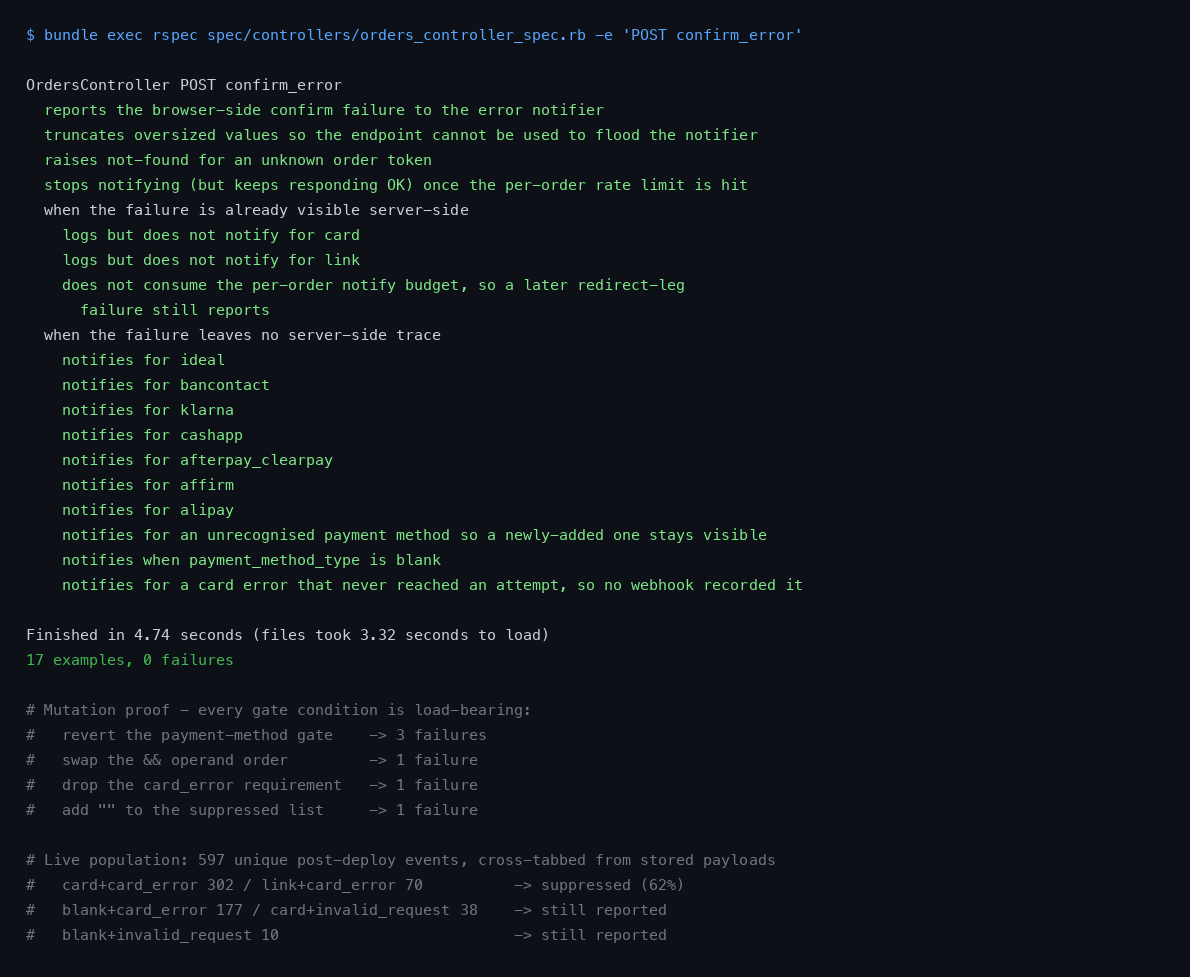
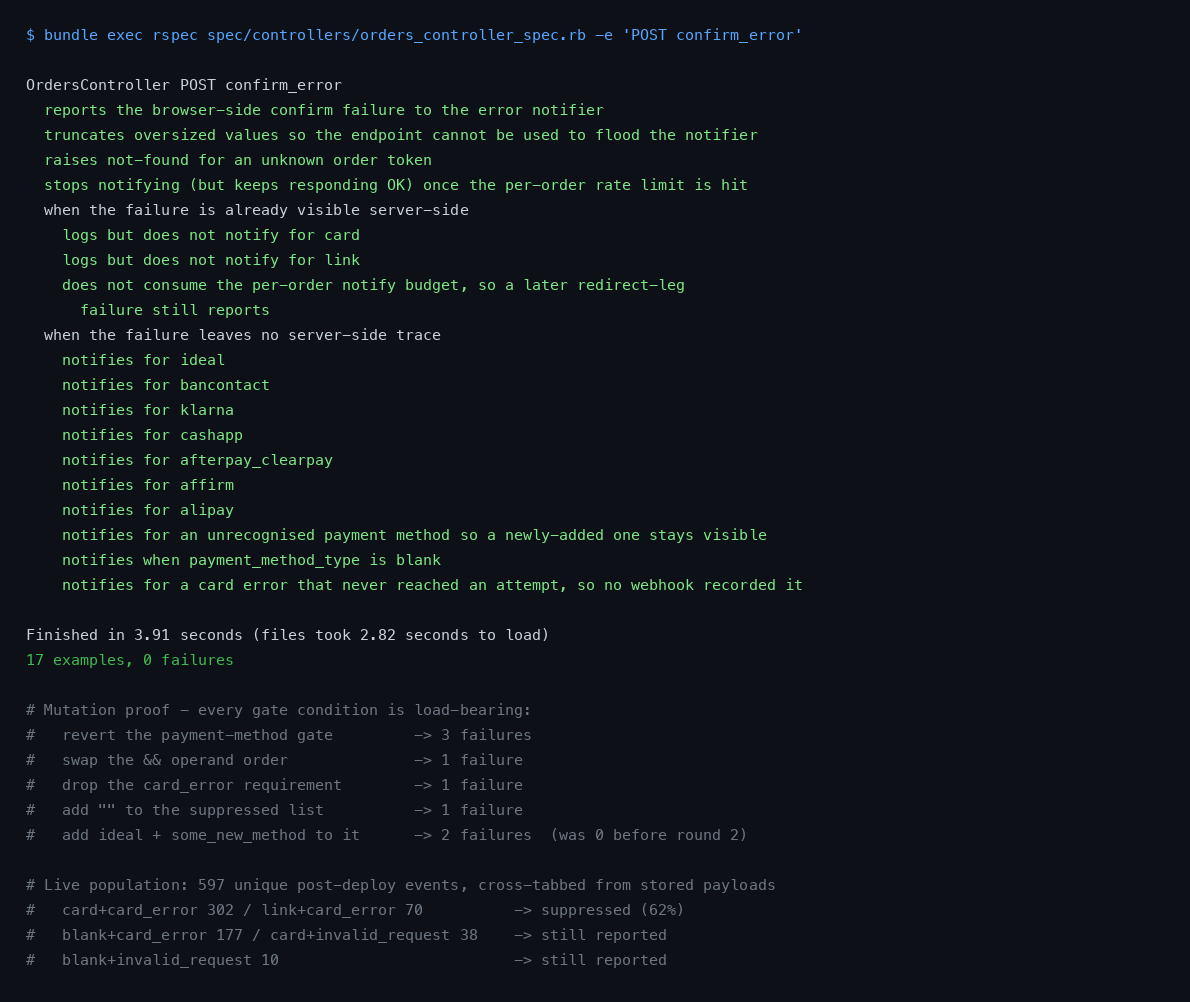
Make the redirect-method examples actually consult the denylist
Round-2 review caught that the redirect-method and unrecognised-method examples omit
stripe_error_type, so the predicate returns early at the attempt check and never reaches
the denylist. Adding ideal and some_new_method to the suppressed list reddened nothing:
the examples that exist to prove a new payment method stays visible were pinning nothing.

They now send card_error, which is the only type that reaches the membership check. Same
mutation: 0 failures before, 2 after. 17 examples, 0 failures; RuboCop clean.

Also drops the live-population percentages from the comments (they live in the PR body and
evidence image, per the previous commit) and names payment_intent.payment_failed inline
instead of pointing at another constant's comment.

diff --git a/spec/controllers/orders_controller_spec.rb b/spec/controllers/orders_controller_spec.rb
@@ -2693,6 +2693,10 @@ describe OrdersController, :vcr do
 
     context "when the failure leaves no server-side trace" do
       # A rejected confirm here creates no charge and no webhook — the browser is the only witness.
+      #
+      # stripe_error_type is card_error in these so the denylist is actually consulted: any other
+      # type returns early at the attempt check, and the examples would pass even if the method
+      # were suppressed.
       StripeIntentStatus::CLIENT_REDIRECT_PAYMENT_METHOD_TYPES.each do |payment_method_type|
         it "notifies for #{payment_method_type}" do
           params = { line_items: line_items.map(&:dup) }.merge(common_params)
@@ -2706,6 +2710,7 @@ describe OrdersController, :vcr do
           post :confirm_error, params: {
             id: order.secure_external_id(scope: "confirm"),
             payment_method_type:,
+            stripe_error_type: "card_error",
             stripe_error_code: "payment_intent_unexpected_state",
           }
 
@@ -2725,6 +2730,7 @@ describe OrdersController, :vcr do
         post :confirm_error, params: {
           id: order.secure_external_id(scope: "confirm"),
           payment_method_type: "some_new_method",
+          stripe_error_type: "card_error",
           stripe_error_code: "payment_intent_unexpected_state",
         }
 
@@ -2732,11 +2738,8 @@ describe OrdersController, :vcr do
       end
 
       it "notifies when payment_method_type is blank" do
-        # 31% of live events arrive with no payment_method_type at all, and reporting them is the
-        # denylist's deliberate fail-open direction.
-        #
-        # stripe_error_type MUST be card_error: any other type returns early at the attempt check
-        # and the example would pass even with blank suppressed.
+        # Blank arrives whenever Stripe raises before attaching a payment method, and reporting it
+        # is the denylist's deliberate fail-open direction.
         params = { line_items: line_items.map(&:dup) }.merge(common_params)
         order, = Order::CreateService.new(params:).perform
 

diff --git a/app/controllers/orders_controller.rb b/app/controllers/orders_controller.rb
@@ -138,18 +138,16 @@ class OrdersController < ApplicationController
     # writes the code to `purchases.stripe_error_code`.
     CONFIRM_ERROR_SERVER_RECORDED_PAYMENT_METHOD_TYPES = %w[card link].freeze
 
-    # The error type that proves a charge was actually attempted, and therefore that the webhook
-    # above fired at all.
+    # The error type that proves a charge was actually attempted, and therefore that
+    # `payment_intent.payment_failed` fired at all.
     CONFIRM_ERROR_ATTEMPTED_STRIPE_ERROR_TYPE = "card_error"
 
-    # Report only failures nothing else records. A redirect method's rejected confirm creates no
-    # charge and no webhook, so the browser is the only witness; an in-page decline is already a
-    # row in the database.
+    # Report only failures nothing else records.
     #
     # Both conditions are required. Stripe attaches `payment_method` to any error involving one,
     # not just to declines, so a card-typed `invalid_request_error` (consumed ConfirmationToken,
-    # intent in an unexpected state) never transitions the intent and never webhooks — 6.4% of
-    # live events. Suppressing on the method alone would make those log-only.
+    # intent in an unexpected state) never transitions the intent and never webhooks. Suppressing
+    # on the method alone would make those log-only.
     #
     # Denylist rather than allowlist so an unrecognised or blank type keeps reporting: a method
     # added later must not go unmonitored because nobody updated this list.
